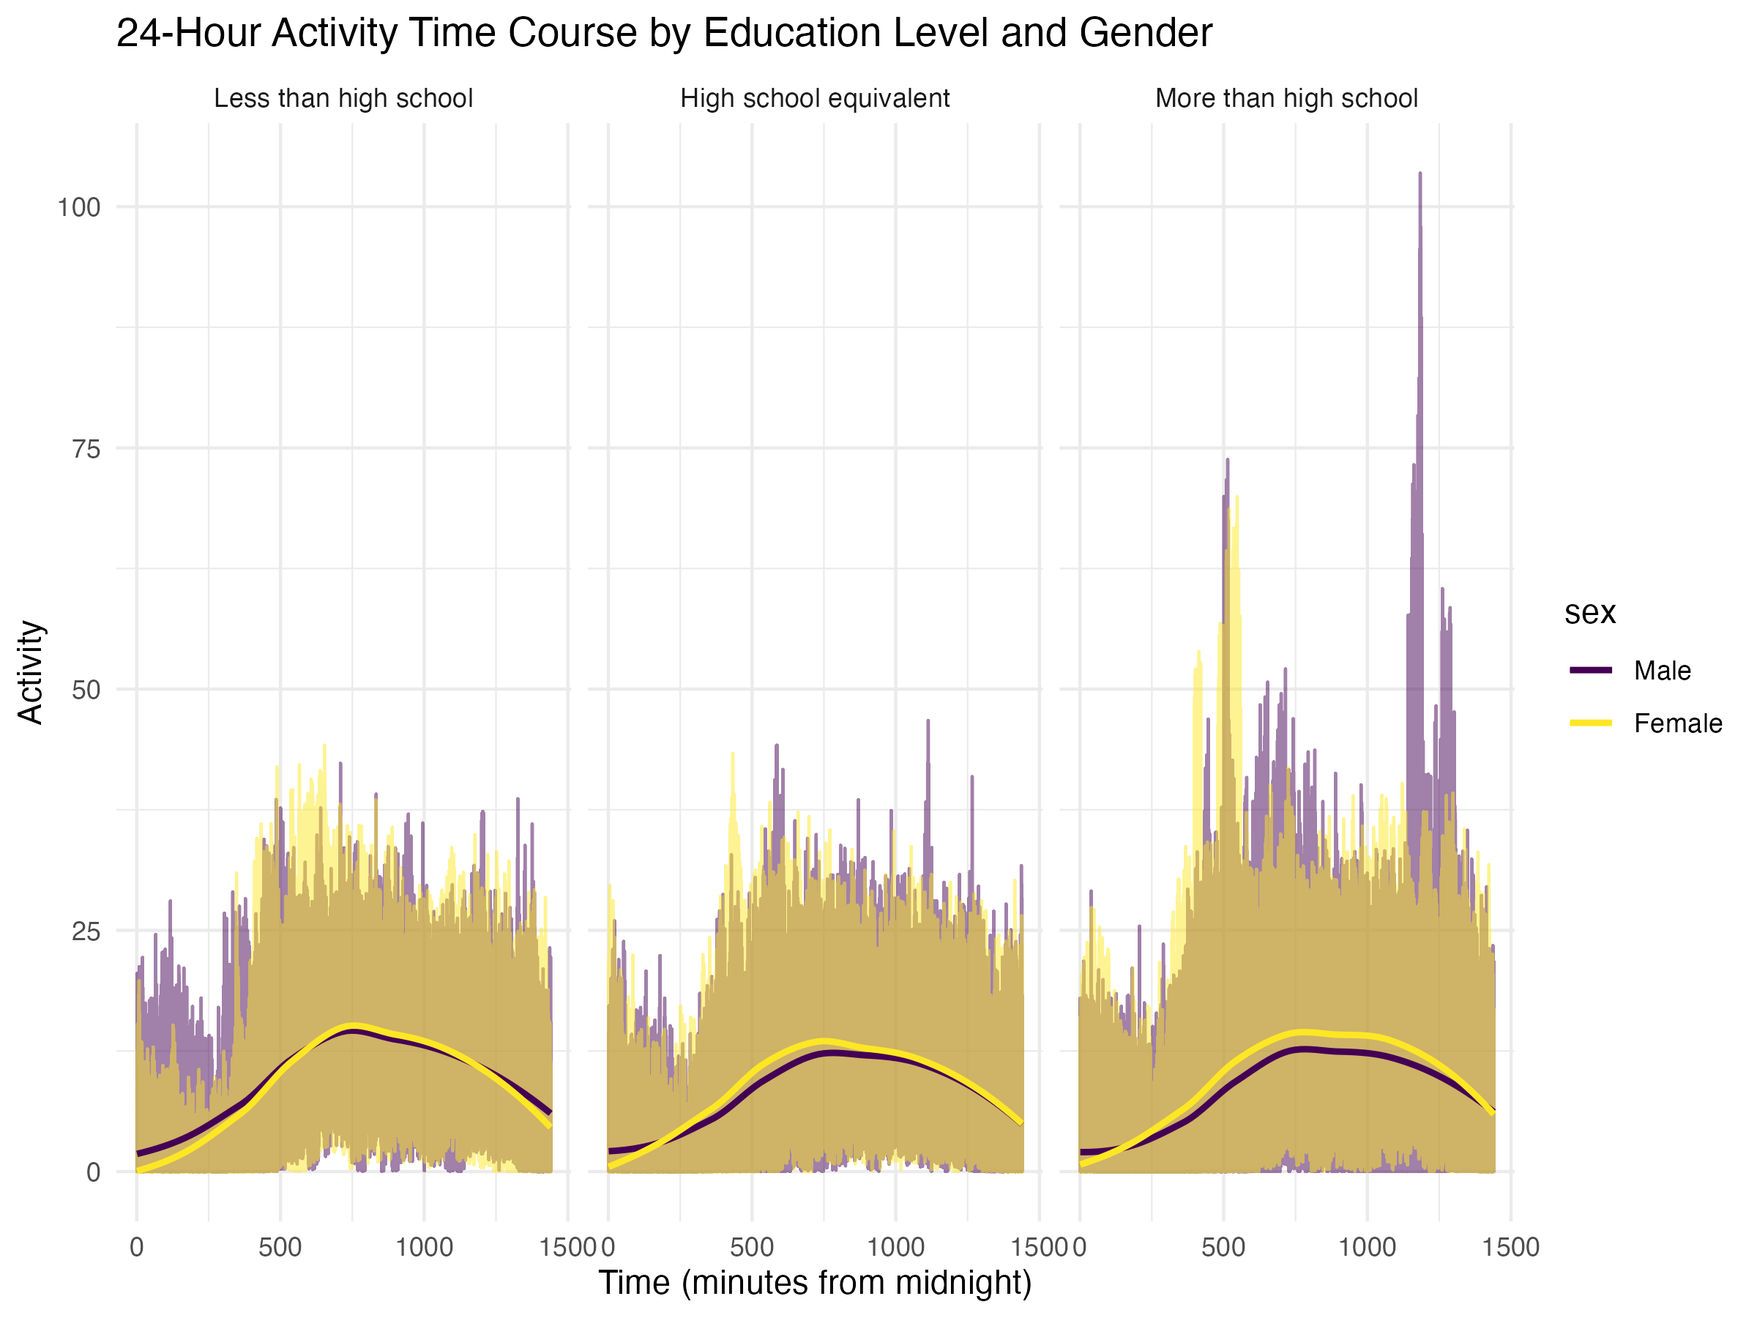
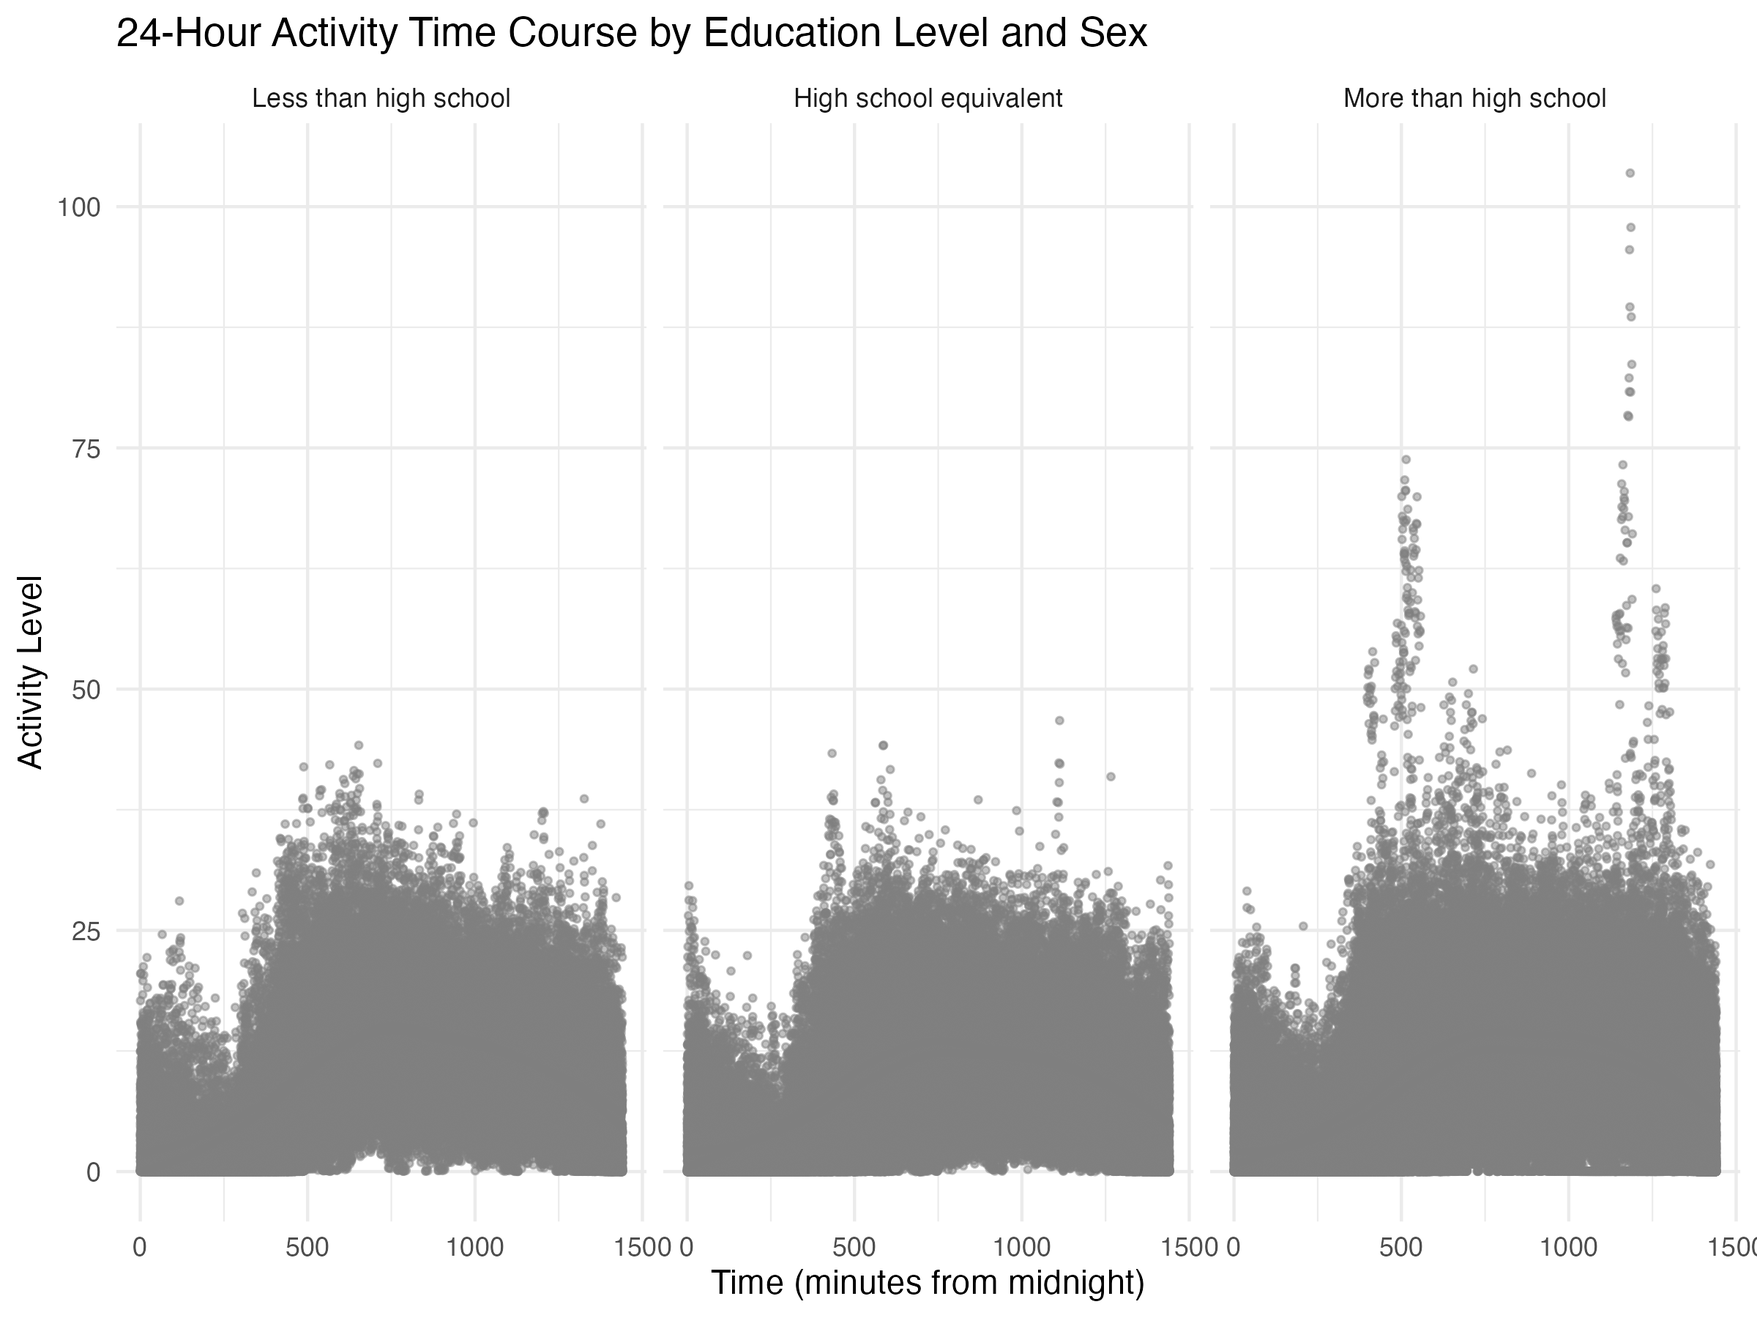
update

diff --git a/p8105_hw3_jc6422.md b/p8105_hw3_jc6422.md
@@ -204,172 +204,8 @@ merged_data = left_join(covar,accel, by = "seqn") %>%
 ```
 
 The cleaned merge data has 228 rows and 1445 columns. The variables are
-seqn, sex, age, bmi, education, min1, min2, min3, min4, min5, min6,
-min7, min8, min9, min10, min11, min12, min13, min14, min15, min16,
-min17, min18, min19, min20, min21, min22, min23, min24, min25, min26,
-min27, min28, min29, min30, min31, min32, min33, min34, min35, min36,
-min37, min38, min39, min40, min41, min42, min43, min44, min45, min46,
-min47, min48, min49, min50, min51, min52, min53, min54, min55, min56,
-min57, min58, min59, min60, min61, min62, min63, min64, min65, min66,
-min67, min68, min69, min70, min71, min72, min73, min74, min75, min76,
-min77, min78, min79, min80, min81, min82, min83, min84, min85, min86,
-min87, min88, min89, min90, min91, min92, min93, min94, min95, min96,
-min97, min98, min99, min100, min101, min102, min103, min104, min105,
-min106, min107, min108, min109, min110, min111, min112, min113, min114,
-min115, min116, min117, min118, min119, min120, min121, min122, min123,
-min124, min125, min126, min127, min128, min129, min130, min131, min132,
-min133, min134, min135, min136, min137, min138, min139, min140, min141,
-min142, min143, min144, min145, min146, min147, min148, min149, min150,
-min151, min152, min153, min154, min155, min156, min157, min158, min159,
-min160, min161, min162, min163, min164, min165, min166, min167, min168,
-min169, min170, min171, min172, min173, min174, min175, min176, min177,
-min178, min179, min180, min181, min182, min183, min184, min185, min186,
-min187, min188, min189, min190, min191, min192, min193, min194, min195,
-min196, min197, min198, min199, min200, min201, min202, min203, min204,
-min205, min206, min207, min208, min209, min210, min211, min212, min213,
-min214, min215, min216, min217, min218, min219, min220, min221, min222,
-min223, min224, min225, min226, min227, min228, min229, min230, min231,
-min232, min233, min234, min235, min236, min237, min238, min239, min240,
-min241, min242, min243, min244, min245, min246, min247, min248, min249,
-min250, min251, min252, min253, min254, min255, min256, min257, min258,
-min259, min260, min261, min262, min263, min264, min265, min266, min267,
-min268, min269, min270, min271, min272, min273, min274, min275, min276,
-min277, min278, min279, min280, min281, min282, min283, min284, min285,
-min286, min287, min288, min289, min290, min291, min292, min293, min294,
-min295, min296, min297, min298, min299, min300, min301, min302, min303,
-min304, min305, min306, min307, min308, min309, min310, min311, min312,
-min313, min314, min315, min316, min317, min318, min319, min320, min321,
-min322, min323, min324, min325, min326, min327, min328, min329, min330,
-min331, min332, min333, min334, min335, min336, min337, min338, min339,
-min340, min341, min342, min343, min344, min345, min346, min347, min348,
-min349, min350, min351, min352, min353, min354, min355, min356, min357,
-min358, min359, min360, min361, min362, min363, min364, min365, min366,
-min367, min368, min369, min370, min371, min372, min373, min374, min375,
-min376, min377, min378, min379, min380, min381, min382, min383, min384,
-min385, min386, min387, min388, min389, min390, min391, min392, min393,
-min394, min395, min396, min397, min398, min399, min400, min401, min402,
-min403, min404, min405, min406, min407, min408, min409, min410, min411,
-min412, min413, min414, min415, min416, min417, min418, min419, min420,
-min421, min422, min423, min424, min425, min426, min427, min428, min429,
-min430, min431, min432, min433, min434, min435, min436, min437, min438,
-min439, min440, min441, min442, min443, min444, min445, min446, min447,
-min448, min449, min450, min451, min452, min453, min454, min455, min456,
-min457, min458, min459, min460, min461, min462, min463, min464, min465,
-min466, min467, min468, min469, min470, min471, min472, min473, min474,
-min475, min476, min477, min478, min479, min480, min481, min482, min483,
-min484, min485, min486, min487, min488, min489, min490, min491, min492,
-min493, min494, min495, min496, min497, min498, min499, min500, min501,
-min502, min503, min504, min505, min506, min507, min508, min509, min510,
-min511, min512, min513, min514, min515, min516, min517, min518, min519,
-min520, min521, min522, min523, min524, min525, min526, min527, min528,
-min529, min530, min531, min532, min533, min534, min535, min536, min537,
-min538, min539, min540, min541, min542, min543, min544, min545, min546,
-min547, min548, min549, min550, min551, min552, min553, min554, min555,
-min556, min557, min558, min559, min560, min561, min562, min563, min564,
-min565, min566, min567, min568, min569, min570, min571, min572, min573,
-min574, min575, min576, min577, min578, min579, min580, min581, min582,
-min583, min584, min585, min586, min587, min588, min589, min590, min591,
-min592, min593, min594, min595, min596, min597, min598, min599, min600,
-min601, min602, min603, min604, min605, min606, min607, min608, min609,
-min610, min611, min612, min613, min614, min615, min616, min617, min618,
-min619, min620, min621, min622, min623, min624, min625, min626, min627,
-min628, min629, min630, min631, min632, min633, min634, min635, min636,
-min637, min638, min639, min640, min641, min642, min643, min644, min645,
-min646, min647, min648, min649, min650, min651, min652, min653, min654,
-min655, min656, min657, min658, min659, min660, min661, min662, min663,
-min664, min665, min666, min667, min668, min669, min670, min671, min672,
-min673, min674, min675, min676, min677, min678, min679, min680, min681,
-min682, min683, min684, min685, min686, min687, min688, min689, min690,
-min691, min692, min693, min694, min695, min696, min697, min698, min699,
-min700, min701, min702, min703, min704, min705, min706, min707, min708,
-min709, min710, min711, min712, min713, min714, min715, min716, min717,
-min718, min719, min720, min721, min722, min723, min724, min725, min726,
-min727, min728, min729, min730, min731, min732, min733, min734, min735,
-min736, min737, min738, min739, min740, min741, min742, min743, min744,
-min745, min746, min747, min748, min749, min750, min751, min752, min753,
-min754, min755, min756, min757, min758, min759, min760, min761, min762,
-min763, min764, min765, min766, min767, min768, min769, min770, min771,
-min772, min773, min774, min775, min776, min777, min778, min779, min780,
-min781, min782, min783, min784, min785, min786, min787, min788, min789,
-min790, min791, min792, min793, min794, min795, min796, min797, min798,
-min799, min800, min801, min802, min803, min804, min805, min806, min807,
-min808, min809, min810, min811, min812, min813, min814, min815, min816,
-min817, min818, min819, min820, min821, min822, min823, min824, min825,
-min826, min827, min828, min829, min830, min831, min832, min833, min834,
-min835, min836, min837, min838, min839, min840, min841, min842, min843,
-min844, min845, min846, min847, min848, min849, min850, min851, min852,
-min853, min854, min855, min856, min857, min858, min859, min860, min861,
-min862, min863, min864, min865, min866, min867, min868, min869, min870,
-min871, min872, min873, min874, min875, min876, min877, min878, min879,
-min880, min881, min882, min883, min884, min885, min886, min887, min888,
-min889, min890, min891, min892, min893, min894, min895, min896, min897,
-min898, min899, min900, min901, min902, min903, min904, min905, min906,
-min907, min908, min909, min910, min911, min912, min913, min914, min915,
-min916, min917, min918, min919, min920, min921, min922, min923, min924,
-min925, min926, min927, min928, min929, min930, min931, min932, min933,
-min934, min935, min936, min937, min938, min939, min940, min941, min942,
-min943, min944, min945, min946, min947, min948, min949, min950, min951,
-min952, min953, min954, min955, min956, min957, min958, min959, min960,
-min961, min962, min963, min964, min965, min966, min967, min968, min969,
-min970, min971, min972, min973, min974, min975, min976, min977, min978,
-min979, min980, min981, min982, min983, min984, min985, min986, min987,
-min988, min989, min990, min991, min992, min993, min994, min995, min996,
-min997, min998, min999, min1000, min1001, min1002, min1003, min1004,
-min1005, min1006, min1007, min1008, min1009, min1010, min1011, min1012,
-min1013, min1014, min1015, min1016, min1017, min1018, min1019, min1020,
-min1021, min1022, min1023, min1024, min1025, min1026, min1027, min1028,
-min1029, min1030, min1031, min1032, min1033, min1034, min1035, min1036,
-min1037, min1038, min1039, min1040, min1041, min1042, min1043, min1044,
-min1045, min1046, min1047, min1048, min1049, min1050, min1051, min1052,
-min1053, min1054, min1055, min1056, min1057, min1058, min1059, min1060,
-min1061, min1062, min1063, min1064, min1065, min1066, min1067, min1068,
-min1069, min1070, min1071, min1072, min1073, min1074, min1075, min1076,
-min1077, min1078, min1079, min1080, min1081, min1082, min1083, min1084,
-min1085, min1086, min1087, min1088, min1089, min1090, min1091, min1092,
-min1093, min1094, min1095, min1096, min1097, min1098, min1099, min1100,
-min1101, min1102, min1103, min1104, min1105, min1106, min1107, min1108,
-min1109, min1110, min1111, min1112, min1113, min1114, min1115, min1116,
-min1117, min1118, min1119, min1120, min1121, min1122, min1123, min1124,
-min1125, min1126, min1127, min1128, min1129, min1130, min1131, min1132,
-min1133, min1134, min1135, min1136, min1137, min1138, min1139, min1140,
-min1141, min1142, min1143, min1144, min1145, min1146, min1147, min1148,
-min1149, min1150, min1151, min1152, min1153, min1154, min1155, min1156,
-min1157, min1158, min1159, min1160, min1161, min1162, min1163, min1164,
-min1165, min1166, min1167, min1168, min1169, min1170, min1171, min1172,
-min1173, min1174, min1175, min1176, min1177, min1178, min1179, min1180,
-min1181, min1182, min1183, min1184, min1185, min1186, min1187, min1188,
-min1189, min1190, min1191, min1192, min1193, min1194, min1195, min1196,
-min1197, min1198, min1199, min1200, min1201, min1202, min1203, min1204,
-min1205, min1206, min1207, min1208, min1209, min1210, min1211, min1212,
-min1213, min1214, min1215, min1216, min1217, min1218, min1219, min1220,
-min1221, min1222, min1223, min1224, min1225, min1226, min1227, min1228,
-min1229, min1230, min1231, min1232, min1233, min1234, min1235, min1236,
-min1237, min1238, min1239, min1240, min1241, min1242, min1243, min1244,
-min1245, min1246, min1247, min1248, min1249, min1250, min1251, min1252,
-min1253, min1254, min1255, min1256, min1257, min1258, min1259, min1260,
-min1261, min1262, min1263, min1264, min1265, min1266, min1267, min1268,
-min1269, min1270, min1271, min1272, min1273, min1274, min1275, min1276,
-min1277, min1278, min1279, min1280, min1281, min1282, min1283, min1284,
-min1285, min1286, min1287, min1288, min1289, min1290, min1291, min1292,
-min1293, min1294, min1295, min1296, min1297, min1298, min1299, min1300,
-min1301, min1302, min1303, min1304, min1305, min1306, min1307, min1308,
-min1309, min1310, min1311, min1312, min1313, min1314, min1315, min1316,
-min1317, min1318, min1319, min1320, min1321, min1322, min1323, min1324,
-min1325, min1326, min1327, min1328, min1329, min1330, min1331, min1332,
-min1333, min1334, min1335, min1336, min1337, min1338, min1339, min1340,
-min1341, min1342, min1343, min1344, min1345, min1346, min1347, min1348,
-min1349, min1350, min1351, min1352, min1353, min1354, min1355, min1356,
-min1357, min1358, min1359, min1360, min1361, min1362, min1363, min1364,
-min1365, min1366, min1367, min1368, min1369, min1370, min1371, min1372,
-min1373, min1374, min1375, min1376, min1377, min1378, min1379, min1380,
-min1381, min1382, min1383, min1384, min1385, min1386, min1387, min1388,
-min1389, min1390, min1391, min1392, min1393, min1394, min1395, min1396,
-min1397, min1398, min1399, min1400, min1401, min1402, min1403, min1404,
-min1405, min1406, min1407, min1408, min1409, min1410, min1411, min1412,
-min1413, min1414, min1415, min1416, min1417, min1418, min1419, min1420,
-min1421, min1422, min1423, min1424, min1425, min1426, min1427, min1428,
-min1429, min1430, min1431, min1432, min1433, min1434, min1435, min1436,
-min1437, min1438, min1439, min1440.
+seqn, sex, age, bmi, education, MIMS values for each minutes of a
+24-hour day.
 
 Create a table for the number of men and women in each education
 category:
@@ -495,13 +331,12 @@ long_data = merged_data %>%
   pivot_longer(cols = starts_with("min"), 
                names_to = "minute", 
                values_to = "activity") %>%
-  mutate(minute = as.numeric(str_remove(minute, "min")),
-         hour = minute %/% 60 + 1)
+  mutate(minute = as.numeric(str_remove(minute, "min")))
 
 activity_plot = ggplot(long_data, aes(x = minute, y = activity, color = sex)) +
   geom_line(alpha = 0.5) +  
-  geom_smooth(se = FALSE, method = "loess") + 
-  facet_wrap(~education) +  
+  geom_smooth(se = FALSE) + 
+  facet_wrap(.~education) +  
   labs(
     title = "24-Hour Activity Time Course by Education Level and Gender",
     x = "Time (minutes from midnight)",
@@ -510,26 +345,28 @@ activity_plot = ggplot(long_data, aes(x = minute, y = activity, color = sex)) +
   ) +
   theme_minimal()
 
-ggsave("activity_time_plot.png", plot = activity_plot, width = 8, height = 6)
+activity_plot
 ```
 
-    ## `geom_smooth()` using formula = 'y ~ x'
+    ## `geom_smooth()` using method = 'gam' and formula = 'y ~ s(x, bs = "cs")'
 
-``` r
-knitr::include_graphics("activity_time_plot.png")
-```
-
-<img src="activity_time_plot.png" width="90%" />
+<img src="p8105_hw3_jc6422_files/figure-gfm/unnamed-chunk-10-1.png" width="90%" />
 
 Higher education levels correlate with more sustained physical activity
-throughout the day, especially in the evening.
+throughout the day. In contrast, those with less than a high school
+education exhibit lower overall activity levels.
 
-The graph shows clear daily cycles of physical activity, with higher
-levels in the morning and evening and a dip in the early afternoon.
+Females generally display more consistent and evenly distributed
+activity patterns throughout the day across all education levels. Their
+activity shows fewer extreme peaks and dips compared to males. However,
+Males, particularly those with more education, show larger spikes in
+activity, particularly in the morning and late afternoon, indicating
+potential differences in work schedules or exercise habits.
 
-The trend line shows potential gender differences in physical activity
-patterns, which suggests male and female have similar activity for all
-three education levels.
+The graph shows a typical daily activity cycle for all groups, with
+noticeable peaks in the morning and evening, and a lull during midday.
+This pattern likely corresponds to work-related activities, commuting,
+or exercise routines.
 
 ## Problem 3
 
@@ -695,78 +532,77 @@ knitr::kable(pop_stations,
 |     W 31 St & 7 Ave      |       145       |
 |  West St & Chambers St   |       150       |
 
+The 5 most popular stating stations in July 2024 are Pier 61 at Chelsea
+Piers, University Pl & E 14 St, W 21 St & 6 Ave, W 31 St & 7 Ave and
+West St & Chambers St.
+
 Make a plot to investigate the effects of day of the week, month, and
 year on median ride duration.
 
 ``` r
-citi_bike_data$weekdays = factor(citi_bike_data$weekdays, 
-                                  levels = c("Monday", "Tuesday", "Wednesday", 
-                                             "Thursday", "Friday", "Saturday", "Sunday"))
-
 median_duration = citi_bike_data %>%
-  group_by(weekdays, year, month, member_casual) %>%
+  group_by(weekdays, year, month) %>%
   summarise(median_duration = median(duration,na.rm = TRUE))
 ```
 
-    ## `summarise()` has grouped output by 'weekdays', 'year', 'month'. You can
-    ## override using the `.groups` argument.
+    ## `summarise()` has grouped output by 'weekdays', 'year'. You can override using
+    ## the `.groups` argument.
 
 ``` r
-ggplot(median_duration, aes(x = weekdays, y = median_duration, fill = member_casual)) +
-  geom_bar(stat = "identity", position = "dodge") +
-  facet_grid(year ~ month) +
-  theme_minimal() +
-  labs(title = "Median Ride Duration by Day of the Week, Year, and Month",
-       x = "Day of the Week", y = "Median Duration (minutes)") +
-  scale_fill_manual(values = c("casual" = "coral", "member" = "skyblue")) +
-  theme(axis.text.x = element_text(angle = 45, hjust = 1)) + 
-  scale_x_discrete(expand = expansion(add = 0.5))
+median_duration_plot = median_duration |>
+  ggplot(aes(x = weekdays, y = median_duration, color = month)) +
+  geom_line(aes(group = interaction(year, month))) +
+  facet_wrap(. ~ year) + 
+  labs(title = "Median Ride Duration by Day of the Week, Month, and Year",
+       x = "Day of the Week",
+       y = "Median Ride Duration (minutes)",
+       color = "Month")
+
+median_duration_plot
 ```
 
 <img src="p8105_hw3_jc6422_files/figure-gfm/unnamed-chunk-14-1.png" width="90%" />
 
-This plot shows the different usage patterns between casual and member
-riders, with casual riders generally taking longer, more
-leisure-oriented rides.
-
-There is a noticeable reduction in ride durations for both rider types
-from 2020 to 2024, possibly due to changes in infrastructure, pricing,
-or user behavior.
-
-The seasonality effect is apparent, with July (summer) seeing longer
-ride durations than January (winter), particularly for casual riders.
+This plot shows that median ride duration in July are generally longer
+than in January. These four lines have an increasing trend from Monday
+to Saturday and decreasing from Saturday to Sunday. In both 2020 and
+2024, we see that the weekend days (Saturday and Sunday) have higher
+median ride duration in July compared to the weekdays. This further
+supports the idea that weekend rides in summer are likely more
+recreational, with users taking longer trips for leisure purposes.
+Comparing the two years, we observe that 2024 shows a more consistent,
+indicating an evolving user base that may be utilizing Citi Bike more
+frequently for various purposes.
 
 For data in 2024, make a figure that shows the impact of month,
 membership status, and bike type on the distribution of ride duration.
 
 ``` r
 citi_bike_2024 = citi_bike_data %>%
-  filter(year == 2024) %>%
-  group_by(month, member_casual, rideable_type) %>%
-  summarise(median_duration = median(duration))
-```
+  filter(year == 2024)
 
-    ## `summarise()` has grouped output by 'month', 'member_casual'. You can override
-    ## using the `.groups` argument.
-
-``` r
-ggplot(citi_bike_2024, aes(x = month, y = median_duration, fill = rideable_type)) +
-  geom_bar(stat = "identity", position = "dodge") +
-  facet_wrap(~ member_casual) +
-  theme_minimal() +
-  labs(title = "Distribution of Ride Duration by Membership, Bike Type, and Month (2024)",
-       x = "Membership Status", y = "Ride Duration (minutes)") +
-  scale_fill_manual(values = c("classic_bike" = "skyblue", "electric_bike" = "coral")) +
+figure = ggplot(citi_bike_2024, aes(x = duration, fill = member_casual)) +
+  geom_density(alpha = 0.5) +
+  facet_grid(rideable_type ~ month) +
+  labs(
+    title = "Density of Ride Duration by Month, Membership, and Bike Type",
+    x = "Ride Duration (minutes)",
+    fill = "Membership"
+  ) +
   theme_minimal()
+
+figure
 ```
 
 <img src="p8105_hw3_jc6422_files/figure-gfm/unnamed-chunk-15-1.png" width="90%" />
 
-Casual riders take longer rides, particularly on classic bikes in July,
-likely for leisure.
+By this density plot, we can observe that the majority of rides are
+clustered within 0-50 minutes range, which indicates that most rides,
+whether by casual or member users, are short, with casual riders tending
+to take slightly longer rides.
 
-Members have more uniform ride durations, with little variation between
-bike types and months. They are likely for frequent, shorter trips.
+The member riders have a higher peak than casual riders, which suggests
+that members tend to take a short rides more frequently.
 
-Electric bikes are used for shorter trips by casual riders, especially
-in the July, likely because of their efficiency and speed.
+There are no major seasonal differences in ride duration distribution,
+but electric bike rides tend to be slightly shorter and more uniform.
